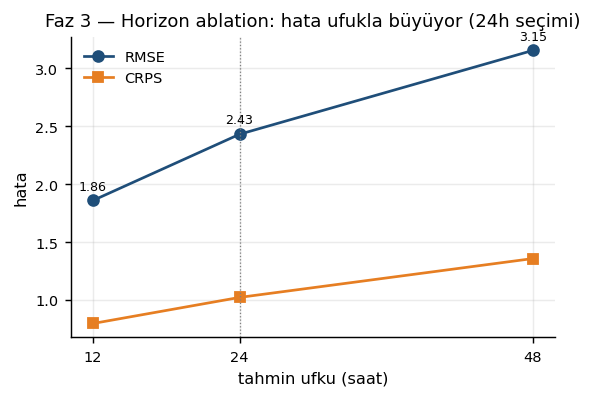
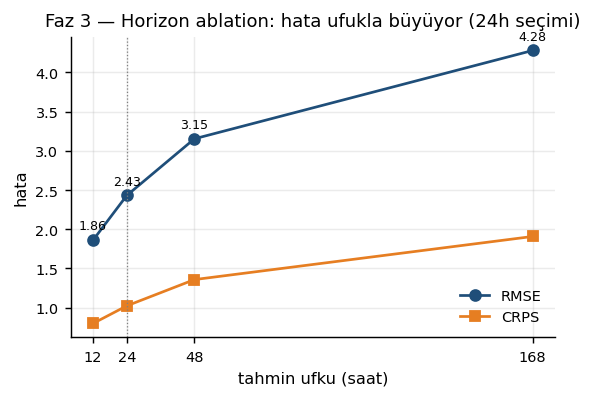
Add 168h to horizon ablation; 10-min QT attempt cancelled (too slow)
- Horizon ablation now spans 12/24/48/168h: RMSE 1.86/2.43/3.15/4.28,
  PICP all calibrated (0.91/0.91/0.89/0.88). Monotone growth, no collapse
  even at a week ahead (4.28 < temperature std 8.41).
- run_10min_ablation.py gained --model {qlstm,qtransformer}. The QT
  attempt was cancelled per the 5-min progress check: after 8.5 min it had
  not finished even one epoch (1008-step self-attention is O(n^2) over
  315K windows). The qLSTM 10-min result already shows resolution does not
  help; QT would only confirm it at prohibitive cost. Noted in report_ideas.

diff --git a/scripts/run_10min_ablation.py b/scripts/run_10min_ablation.py
@@ -34,6 +34,11 @@ sys.path.insert(0, str(ROOT))
 from src.data_loader import load_raw  # noqa: E402
 from src.metrics import report, report_probabilistic  # noqa: E402
 from src.models.qlstm import QLstmConfig, QUANTILES_7, predict_qlstm, train_qlstm  # noqa: E402
+from src.models.quantile_transformer import (  # noqa: E402
+    QTransformerConfig,
+    predict_quantiles,
+    train_qtransformer,
+)
 from src.preprocessing import Standardizer, TARGET, TRAIN_END, VAL_END  # noqa: E402
 
 QUANTILES = np.array(QUANTILES_7)
@@ -64,6 +69,9 @@ def windows(series: np.ndarray, lookback: int, horizon: int, stride: int):
 def main() -> None:
     ap = argparse.ArgumentParser()
     ap.add_argument("--smoke", action="store_true")
+    ap.add_argument("--model", choices=("qlstm", "qtransformer"), default="qlstm",
+                    help="qtransformer is much slower at 1008-step sequences "
+                         "(attention is O(n^2))")
     args = ap.parse_args()
 
     df = load_10min()
@@ -85,14 +93,26 @@ def main() -> None:
         x_tr, y_tr = x_tr[:1500], y_tr[:1500]
         x_te, y_te = x_te[:40], y_te[:40]
 
-    cfg = QLstmConfig(lookback=L10, horizon=H10, batch_size=64)
-    if args.smoke:
-        cfg.epochs = 1
-    print(f"Training 10-min qLSTM (lookback {L10}, horizon {H10}) ...")
-    model, _ = train_qlstm(x_tr, y_tr, x_va, y_va, cfg, device=DEVICE)
+    if args.model == "qlstm":
+        cfg = QLstmConfig(lookback=L10, horizon=H10, batch_size=64)
+        if args.smoke:
+            cfg.epochs = 1
+        print(f"Training 10-min qLSTM (lookback {L10}, horizon {H10}) ...", flush=True)
+        model, _ = train_qlstm(x_tr, y_tr, x_va, y_va, cfg, device=DEVICE)
+        predict = lambda x: predict_qlstm(model, x, device=DEVICE)  # noqa: E731
+    else:  # qtransformer -- needs the channel axis; smaller batch for attention memory
+        cfg = QTransformerConfig(lookback=L10, horizon=H10, n_features=1,
+                                 quantiles=QUANTILES_7, batch_size=16)
+        if args.smoke:
+            cfg.epochs = 1
+        x_tr, x_va, x_te = x_tr[:, :, None], x_va[:, :, None], x_te[:, :, None]
+        print(f"Training 10-min QTransformer (lookback {L10}, horizon {H10}, "
+              f"attention O(n^2)) ...", flush=True)
+        model, _ = train_qtransformer(x_tr, y_tr, x_va, y_va, cfg, device=DEVICE)
+        predict = lambda x: predict_quantiles(model, x, device=DEVICE)  # noqa: E731
 
     inv = lambda a: scaler.inverse_target(a, TARGET)  # noqa: E731
-    q10 = inv(predict_qlstm(model, x_te, device=DEVICE))     # (N, 144, Q)
+    q10 = inv(predict(x_te))                                  # (N, 144, Q)
     y10 = inv(y_te)                                           # (N, 144)
 
     # hourly-equivalent: average each 6-step block -> (N, 24[, Q])
@@ -105,20 +125,22 @@ def main() -> None:
                              QUANTILES, alpha=ALPHA)
     point = report(y_hourly.reshape(-1), med.reshape(-1))
 
-    hourly_ref = json.loads((ROOT / "results" / "base" / "qlstm.json").read_text())
+    ref_file = "qlstm.json" if args.model == "qlstm" else "qtransformer.json"
+    hourly_ref = json.loads((ROOT / "results" / "base" / ref_file).read_text())
     out = {
-        "resolution": "10min", "lookback_steps": L10, "horizon_steps": H10,
-        "eval": "hourly-equivalent (6-step block mean), comparable to qlstm.json",
+        "model": args.model, "resolution": "10min", "lookback_steps": L10, "horizon_steps": H10,
+        "eval": f"hourly-equivalent (6-step block mean), comparable to {ref_file}",
         "smoke": bool(args.smoke),
         "10min_hourly_equiv": {"rmse": point["rmse"], "crps": r["crps"], "picp": r["picp"]},
-        "hourly_reference_qlstm": {"rmse": hourly_ref["rmse"], "crps": hourly_ref["crps"],
-                                   "picp": hourly_ref["picp"]},
+        "hourly_reference": {"model": args.model, "rmse": hourly_ref["rmse"],
+                             "crps": hourly_ref["crps"], "picp": hourly_ref["picp"]},
         "note": "quantile-block-averaging narrows the predictive spread, so PICP "
                 "is only approximately comparable; RMSE is the clean comparison.",
     }
-    out_path = ROOT / "results" / "base" / "ablation_10min.json"
+    suffix = "" if args.model == "qlstm" else f"_{args.model}"
+    out_path = ROOT / "results" / "base" / f"ablation_10min{suffix}.json"
     out_path.write_text(json.dumps(out, indent=2))
-    print("\n=== 10-min (hourly-equiv) vs hourly qLSTM ===")
+    print(f"\n=== 10-min (hourly-equiv) vs hourly {args.model} ===")
     print(f"  10-min : RMSE {point['rmse']:.3f}  CRPS {r['crps']:.3f}  PICP {r['picp']:.3f}")
     print(f"  hourly : RMSE {hourly_ref['rmse']:.3f}  CRPS {hourly_ref['crps']:.3f}  PICP {hourly_ref['picp']:.3f}")
     print(f"Saved -> {out_path}")

diff --git a/scripts/run_horizon_ablation.py b/scripts/run_horizon_ablation.py
@@ -36,7 +36,7 @@ from src.seq_data import make_encoder_windows  # noqa: E402
 QUANTILES = np.array(QUANTILES_7)
 ALPHA = 0.1
 DEVICE = "cuda" if torch.cuda.is_available() else "cpu"
-HORIZONS = (12, 24, 48)
+HORIZONS = (12, 24, 48, 168)
 L = 168
 
 